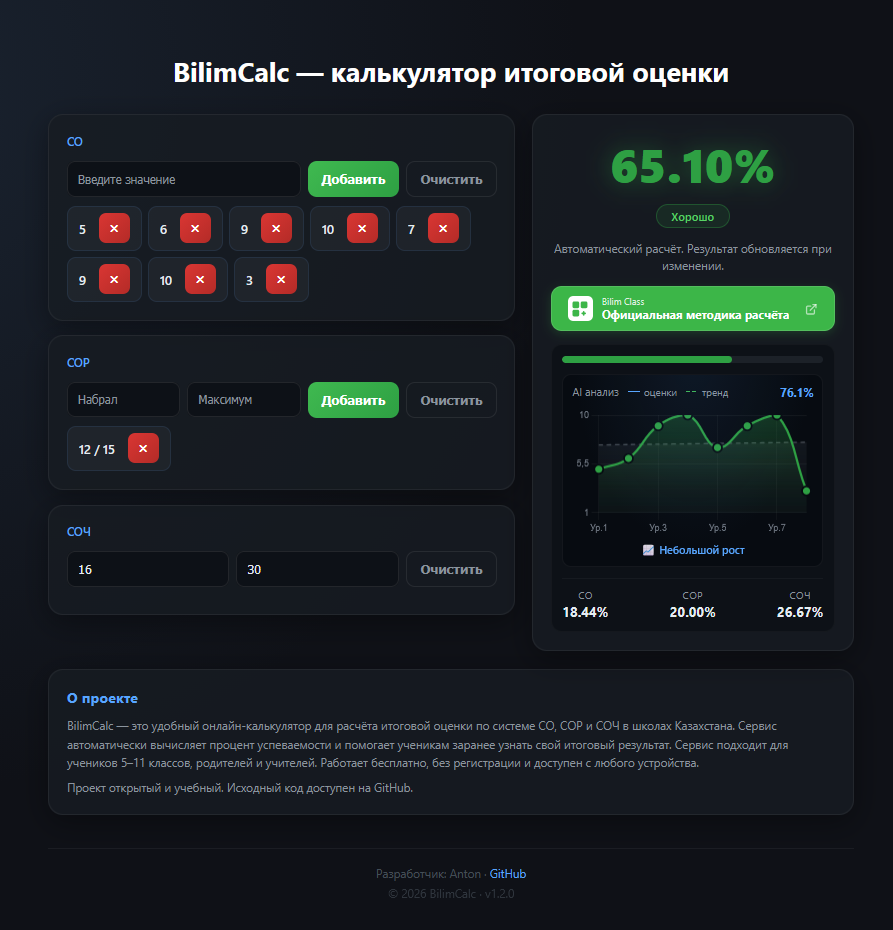
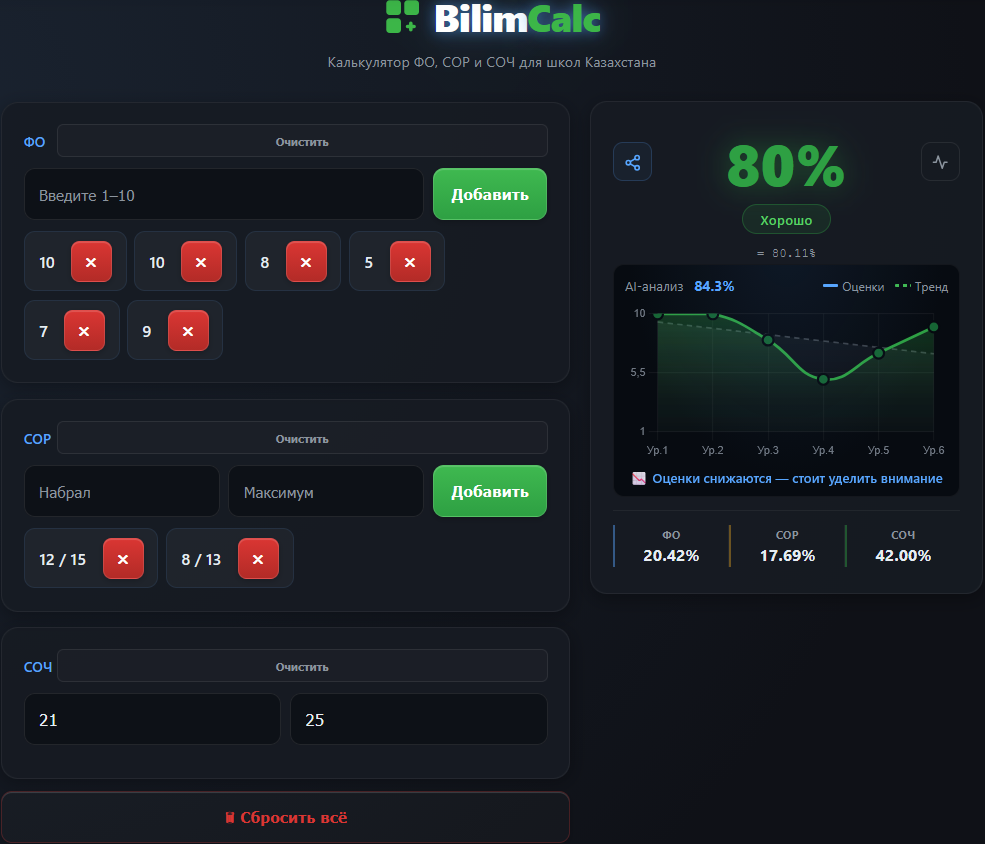
improve layout and refine project

diff --git a/app.py b/app.py
@@ -28,7 +28,6 @@ def _abs_url(path):
 
 
 def _canonical_for_path(path):
-    """Canonical URL for a route path (must match sitemap loc format)."""
     if not path or path == "/":
         return SITE_URL + "/"
     return SITE_URL + path.rstrip("/")
@@ -185,7 +184,10 @@ def inject_globals():
 @app.before_request
 def force_non_www():
     if request.host.startswith("www."):
-        return redirect(SITE_URL + request.full_path, code=301)
+        url = SITE_URL + request.path
+        if request.query_string:
+            url += "?" + request.query_string.decode("utf-8")
+        return redirect(url, code=301)
 
 
 @app.route("/")
@@ -287,8 +289,11 @@ def rss_feed():
 @app.route("/sw.js")
 def service_worker():
     sw_path = os.path.join(app.root_path, "static", "js", "sw.js")
-    with open(sw_path, "r", encoding="utf-8") as f:
-        content = f.read().replace("__BUILD_TIME__", BUILD_TIME)
+    try:
+        with open(sw_path, "r", encoding="utf-8") as f:
+            content = f.read().replace("__BUILD_TIME__", BUILD_TIME)
+    except OSError:
+        return "", 404
     response = app.response_class(response=content, mimetype="application/javascript")
     response.headers["Service-Worker-Allowed"] = "/"
     response.headers["Cache-Control"] = "no-cache, no-store, must-revalidate"

diff --git a/README.md b/README.md
@@ -1,127 +1,155 @@
-# BilimCalc
-
-**Бесплатный онлайн-калькулятор для школьников Казахстана.**
-Считает итоговую оценку за четверть и год по официальной методике МОН РК — быстро, точно и без лишних действий.
+<h1 align="center">BilimCalc</h1>
 
 <p align="center">
-  <img src="https://img.shields.io/badge/version-1.8.0-22c55e?style=flat-square">
-  <img src="https://img.shields.io/badge/python-3.11-3b82f6?style=flat-square&logo=python&logoColor=white">
-  <img src="https://img.shields.io/badge/flask-3.0-black?style=flat-square&logo=flask">
-  <img src="https://img.shields.io/badge/deploy-vercel-black?style=flat-square&logo=vercel">
-  <img src="https://img.shields.io/badge/pwa-ready-8b5cf6?style=flat-square">
-  <img src="https://img.shields.io/badge/license-CC--BY--NC--4.0-64748b?style=flat-square">
+  Веб-приложение для расчета школьных оценок по системе МОН РК
 </p>
 
-<br>
+<p align="center">
+  <a href="https://bilimcalc.vercel.app">bilimcalc.vercel.app</a>
+</p>
 
-## Зачем это нужно
+<p align="center">
+  <img src="https://img.shields.io/badge/version-1.8.0-22c55e?style=flat-square" alt="Version">
+  <img src="https://img.shields.io/badge/python-3.11-3b82f6?style=flat-square&logo=python&logoColor=white" alt="Python">
+  <img src="https://img.shields.io/badge/flask-3.0-black?style=flat-square&logo=flask" alt="Flask">
+  <img src="https://img.shields.io/badge/vercel-deploy-black?style=flat-square&logo=vercel" alt="Vercel">
+  <img src="https://img.shields.io/badge/pwa-ready-8b5cf6?style=flat-square" alt="PWA">
+</p>
 
-Каждый раз перед концом четверти сотни тысяч учеников и родителей по всему Казахстану пытаются вручную посчитать итоговую оценку. Гуглят формулы, считают в обычном калькуляторе, ошибаются.
+---
 
-BilimCalc решает эту задачу за секунды. Никаких лишних шагов — просто вводишь свои оценки и сразу видишь результат.
+## О проекте
 
-> Сайт работает полностью бесплатно, без рекламы в интерфейсе и без регистрации.
+BilimCalc — веб-приложение для расчета итоговых школьных оценок по стандартам МОН РК.
 
-**→ [bilimcalc.vercel.app](https://bilimcalc.vercel.app)**
+Проект автоматически рассчитывает результаты на основе ФО, СОР и СОЧ с учетом официальных коэффициентов и особенностей системы оценивания для разных классов.
 
-<br>
+Основная задача проекта — предоставить быстрый и удобный инструмент, который одинаково хорошо работает как на компьютерах, так и на мобильных устройствах.
 
-## Что умеет BilimCalc
+---
 
-#### Калькулятор четверти
-Расчёт итоговой оценки по официальной формуле МОН РК:
-**ФО × 25% + СОР × 25% + СОЧ × 50%**
+## Скриншот
 
-Поддерживает несколько ФО, несколько СОР с разными максимумами и один СОЧ. Если СОЧ не было — считает по формуле `(ФО + СОР) × 2`.
+![BilimCalc](./screenshots/main.png)
 
-#### BilimExam — итоговая за год
-Отдельный калькулятор для учеников 9 и 11 классов. Формула **70/30**: годовая оценка × 70% + экзамен × 30%. Показывает, какой балл нужен на экзамене для «3», «4» или «5».
+---
 
-#### AI-анализ динамики
-При вводе двух и более ФО строит график с трендом на основе линейной регрессии. Работает полностью в браузере, без сервера.
+## Возможности
 
-#### Работает офлайн
-Service Worker кэширует все страницы и ресурсы. Сайт открывается даже без интернета.
+- Расчет итоговых оценок по формулам МОН РК
+- Поддержка ФО, СОР и СОЧ
+- Обработка случаев без СОЧ
+- Поддержка системы 70/30 для 9 и 11 классов
+- Работа без интернета (PWA + Service Worker)
+- Установка приложения на Android и iOS
+- Графики успеваемости на Chart.js
+- Темная и светлая темы
+- Адаптивный интерфейс для мобильных устройств
 
-#### Устанавливается на телефон
-PWA с поддержкой iOS и Android. Добавляется на главный экран, запускается как обычное приложение.
+---
 
-<br>
+## Технологии
 
-## Как считается оценка
+### Backend
 
-| Компонент | Описание | Вес |
-|-----------|----------|-----|
-| ФО | Среднее всех формативных оценок (шкала 1–10) | 25% |
-| СОР | Среднее процентов за суммативные по разделам | 25% |
-| СОЧ | Суммативное за четверть | 50% |
+- Python 3.11
+- Flask
+- Gunicorn
 
-Итоговый процент переводится в оценку: **85%+ → 5**, 65–84% → 4, 40–64% → 3, ниже 40% → 2.
+### Frontend
 
-Для 9 и 11 классов: `Итог = Годовая × 0.70 + Экзамен × 0.30`
+- Vanilla JavaScript
+- CSS3
+- Chart.js
 
-<br>
+### Infrastructure
 
-## Стек
+- Vercel
+- Service Worker
+- Web App Manifest
 
-```
-Backend     Flask 3.0 · Python 3.11 · Gunicorn
-Frontend    Vanilla JS · Chart.js · CSS3
-Deploy      Vercel
-PWA         Service Worker · Web App Manifest
-DB          Supabase (счётчик посещений)
-```
+### Database
 
-<br>
+- Supabase (аналитика посещений)
 
-## Быстрый старт
+---
+
+## Архитектура
+
+- Backend отвечает за роутинг и отдачу шаблонов
+- Основные вычисления выполняются на стороне клиента
+- Данные пользователей не сохраняются
+- Service Worker кэширует статические ресурсы для offline-режима
+- Supabase используется только для аналитики посещений
+
+---
+
+## Локальный запуск
+
+Для запуска проекта потребуется Python 3.11+.
 
 ```bash
-git clone https://github.com/antonbogdan165/grade-calculator.git
-cd grade-calculator
+# 1. Клонирование репозитория
+git clone https://github.com/antonbogdan165/BilimCalc.git
+
+# 2. Переход в папку проекта
+cd BilimCalc
+
+# 3. Установка зависимостей
 pip install -r requirements.txt
+
+# 4. Запуск сервера
 python app.py
 ```
 
-Открой в браузере: `http://127.0.0.1:5000`
+После запуска приложение будет доступно по адресу:
 
-<br>
+```text
+http://127.0.0.1:5000
+```
+
+---
 
 ## Структура проекта
 
-```
+```text
 bilimcalc/
-├── app.py              # Роуты Flask
-├── logics.py           # Формула расчёта ФО / СОР / СОЧ
+├── app.py
+├── logics.py
 ├── requirements.txt
 ├── static/
-│   ├── css/            # Стили (dark/light тема, PWA, статьи)
-│   └── js/             # Логика расчётов, тренд, SW
-└── templates/
-    ├── base.html        # Базовый шаблон
-    ├── index.html       # Главная страница
-    ├── kalkulator-ekzamena.html   # BilimExam
-    └── ...              # Статьи и утилиты
+│   ├── css/
+│   ├── js/
+│   ├── icons/
+│   └── manifest.json
+├── templates/
+│   ├── base.html
+│   ├── index.html
+│   └── articles/
+└── vercel.json
 ```
 
-<br>
+---
 
-## Контент
+## Статус проекта
 
-Помимо калькулятора, на сайте есть база статей по системе оценивания МОН РК:
+Проект поддерживается в стабильном состоянии без активной разработки новых функций.
 
-- [Как рассчитать ФО](https://bilimcalc.vercel.app/kak-rasschitat-so)
-- [Как рассчитать СОР](https://bilimcalc.vercel.app/kak-rasschitat-sor)
-- [Как рассчитать СОЧ](https://bilimcalc.vercel.app/kak-rasschitat-soch)
-- [Итоговая оценка за четверть](https://bilimcalc.vercel.app/itogovaya-ocenka-za-chetvert)
-- [Итоговая оценка за год (70/30)](https://bilimcalc.vercel.app/kak-rasschitat-itogovuyu-otsenku-za-god)
-- [Как перевести проценты в оценку](https://bilimcalc.vercel.app/kak-perevesti-procenty-v-otsenku)
-- [Методика расчёта МОН РК](https://bilimcalc.vercel.app/metodika-rascheta-mon-rk)
-
-<br>
+---
 
 ## Лицензия
 
-[CC BY-NC 4.0](https://creativecommons.org/licenses/by-nc/4.0/) — можно использовать и адаптировать в некоммерческих целях с указанием автора.
+Проект распространяется по лицензии CC BY-NC 4.0.
 
-© 2026 Anton Bogdan
+Разрешено использование, изучение и модификация проекта в некоммерческих целях с обязательным указанием авторства.
+
+Коммерческое использование без разрешения автора запрещено.
+
+---
+
+## Автор
+
+Anton Bogdan
+
+- GitHub: https://github.com/antonbogdan165
+- Website: https://bilimcalc.vercel.app